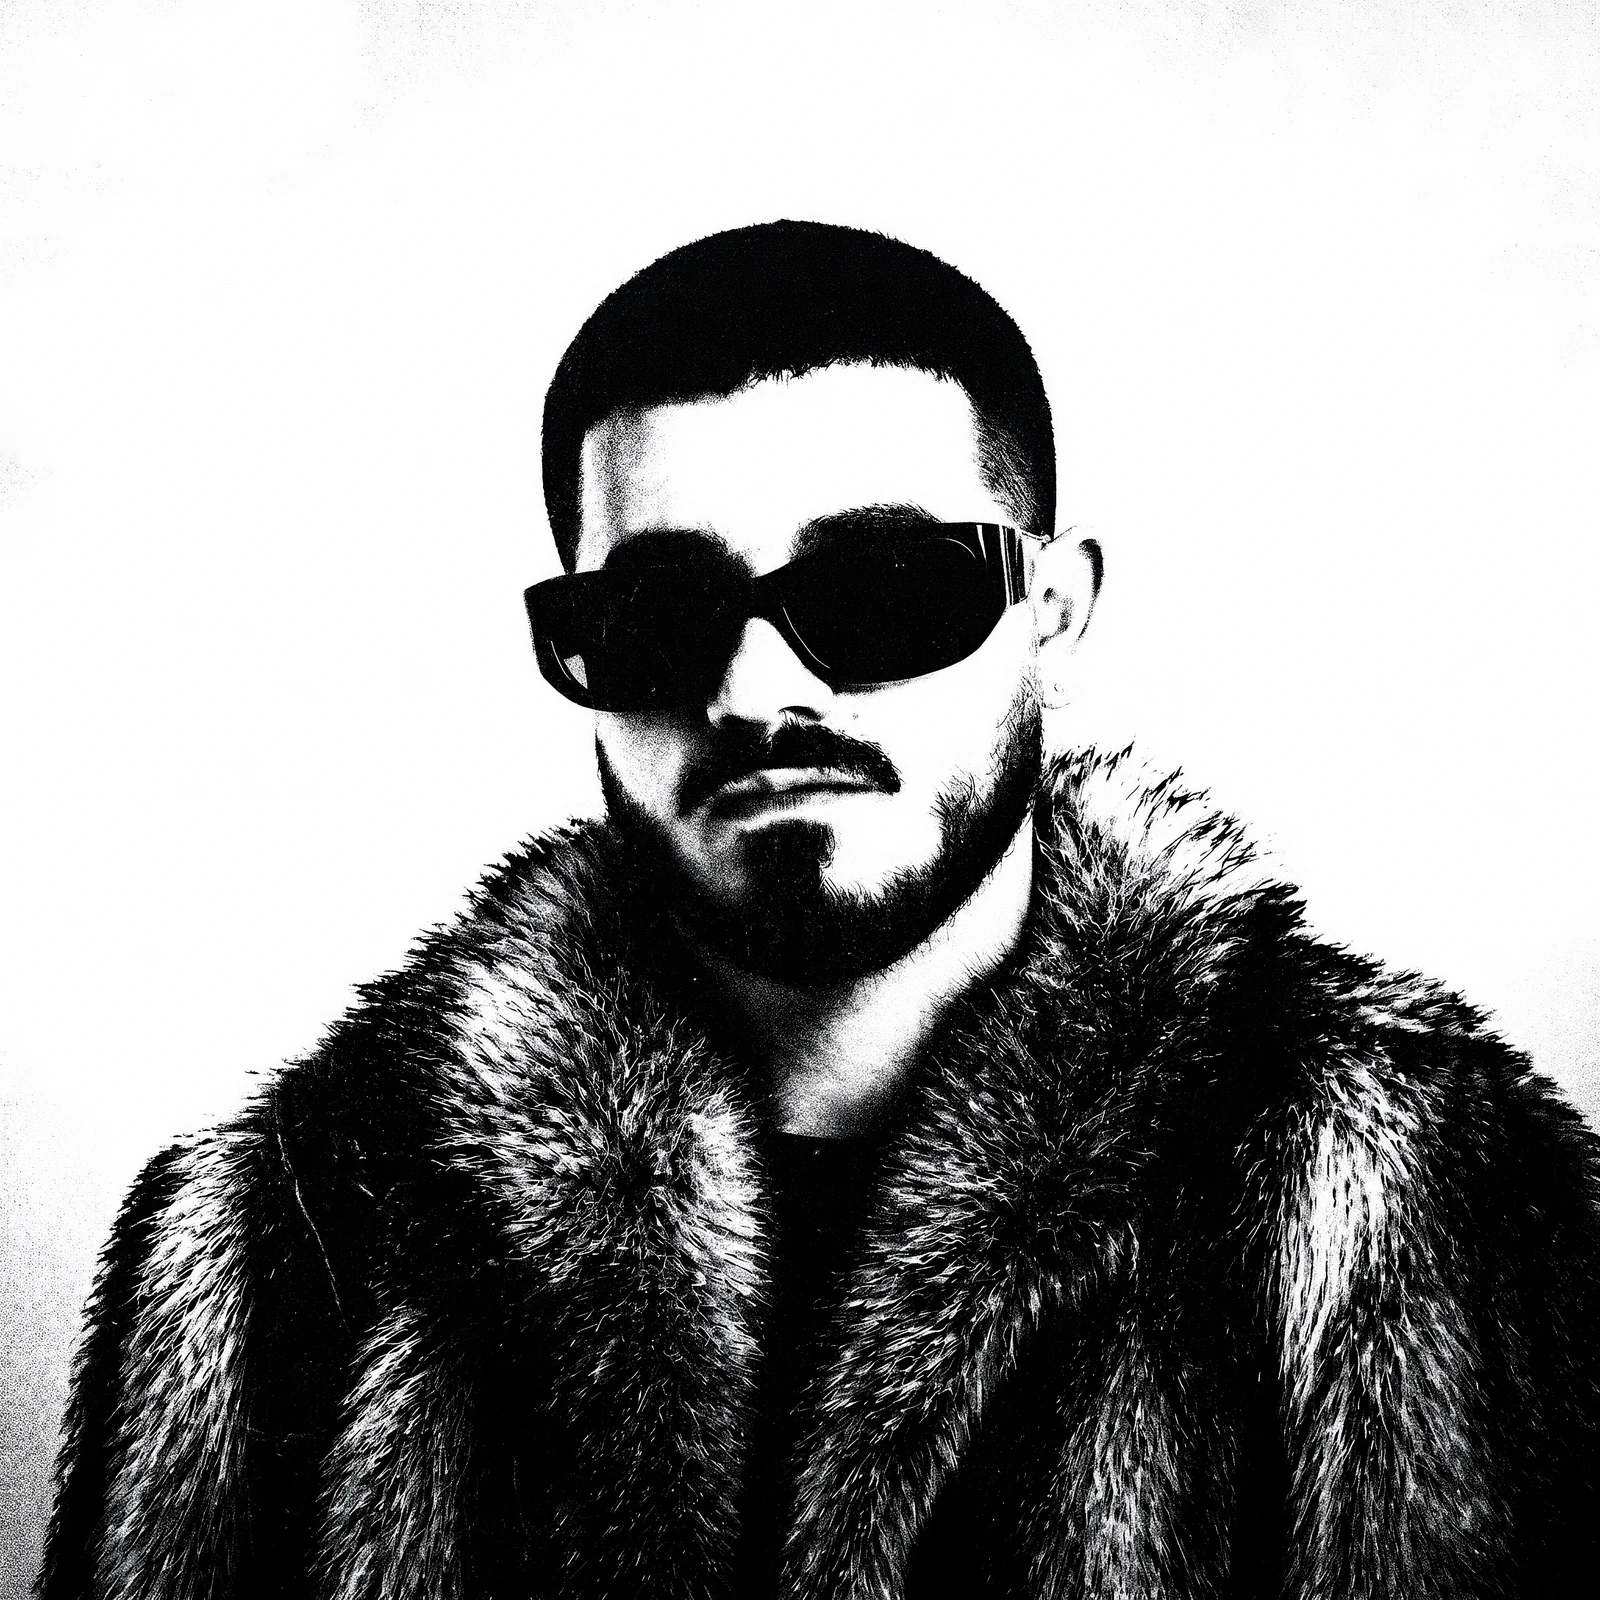
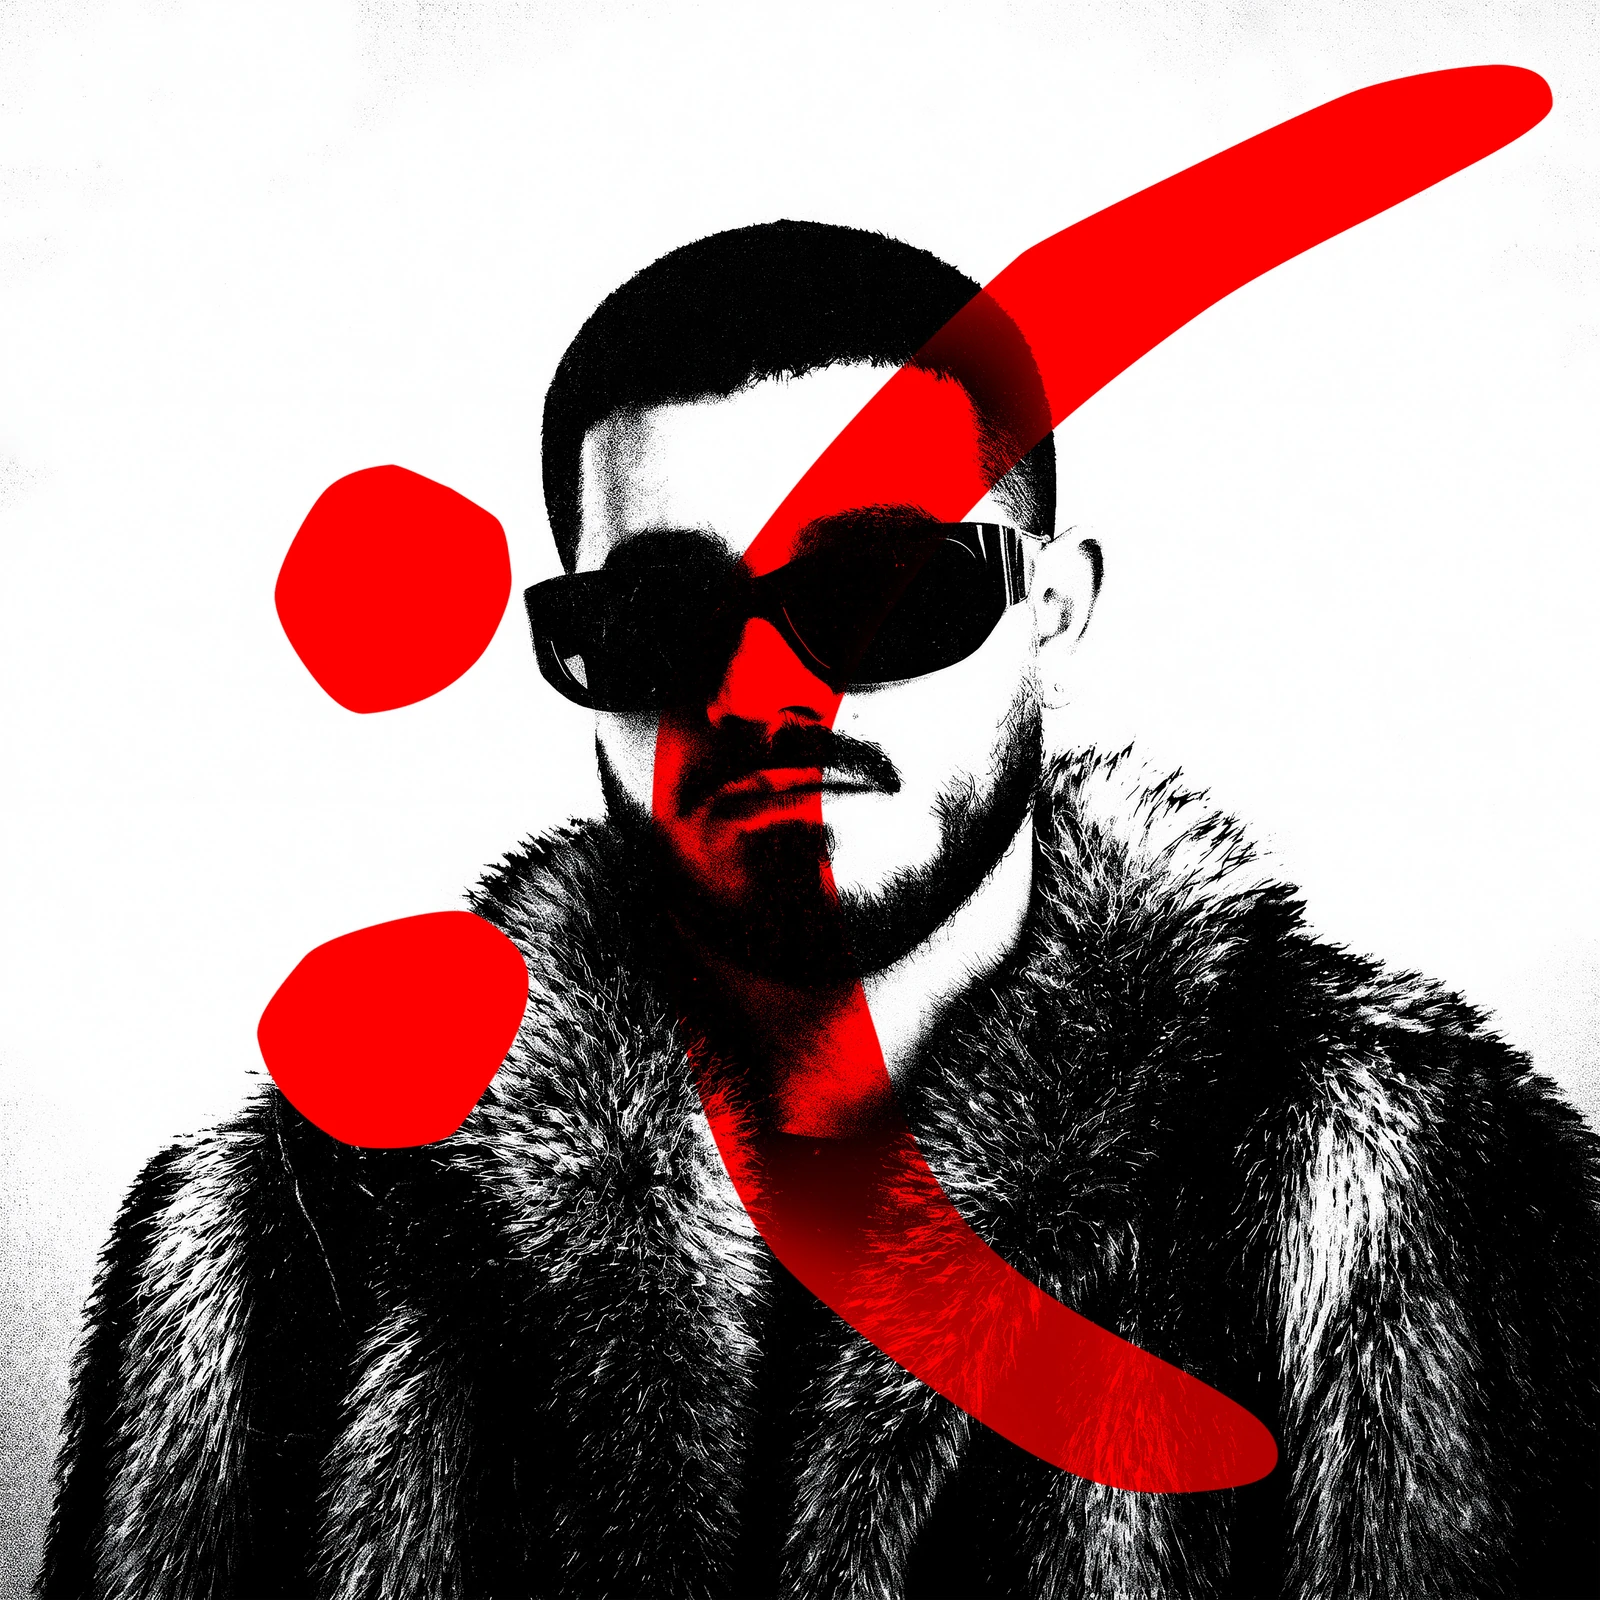
Actualiza la portada final del álbum

diff --git a/lanzamientos/a-la-gente-buena-le-pasan-cosas-malas/index.html b/lanzamientos/a-la-gente-buena-le-pasan-cosas-malas/index.html
@@ -11,11 +11,11 @@
   <meta property="og:url" content="https://afropxmusic.com/lanzamientos/a-la-gente-buena-le-pasan-cosas-malas/">
   <meta property="og:title" content="A la gente buena le pasan cosas malas — AfroPX">
   <meta property="og:description" content="Nuevo álbum de AfroPX. Preguárdalo y encuentra aquí todos sus enlaces oficiales.">
-  <meta property="og:image" content="https://afropxmusic.com/assets/images/algblpcm-og.jpg">
+  <meta property="og:image" content="https://afropxmusic.com/assets/images/algblpcm-og.jpg?v=portada-final-20260720">
   <meta property="og:image:alt" content="Portada de A la gente buena le pasan cosas malas de AfroPX">
   <meta name="twitter:card" content="summary_large_image">
   <link rel="icon" href="../../assets/icons/favicon.svg" type="image/svg+xml">
-  <link rel="preload" href="../../assets/images/algblpcm-cover.webp" as="image" type="image/webp">
+  <link rel="preload" href="../../assets/images/algblpcm-cover.webp?v=portada-final-20260720" as="image" type="image/webp">
   <link rel="stylesheet" href="../../styles.css?v=20260720-4">
   <script src="../../script.js?v=20260720-4" defer></script>
   <script type="application/ld+json">
@@ -24,7 +24,7 @@
     "@type": "MusicAlbum",
     "name": "A la gente buena le pasan cosas malas",
     "url": "https://afropxmusic.com/lanzamientos/a-la-gente-buena-le-pasan-cosas-malas/",
-    "image": "https://afropxmusic.com/assets/images/algblpcm-og.jpg",
+    "image": "https://afropxmusic.com/assets/images/algblpcm-og.jpg?v=portada-final-20260720",
     "numTracks": 12,
     "byArtist": {
       "@type": "MusicGroup",
@@ -59,7 +59,7 @@
     <section class="release-link-hero" id="top" aria-labelledby="album-title">
       <div class="release-link-visual">
         <figure class="release-cover image-reveal">
-          <img src="../../assets/images/algblpcm-cover.webp" alt="Portada del álbum A la gente buena le pasan cosas malas de AfroPX" width="1600" height="1600">
+          <img src="../../assets/images/algblpcm-cover.webp?v=portada-final-20260720" alt="Portada del álbum A la gente buena le pasan cosas malas de AfroPX" width="1600" height="1600">
           <figcaption>AFROPX / 12 CANCIONES / :(</figcaption>
         </figure>
       </div>

diff --git a/lanzamientos/index.html b/lanzamientos/index.html
@@ -11,11 +11,11 @@
   <meta property="og:url" content="https://afropxmusic.com/lanzamientos/">
   <meta property="og:title" content="Lanzamientos — AfroPX">
   <meta property="og:description" content="Últimos lanzamientos, música destacada y todos los enlaces oficiales de AfroPX.">
-  <meta property="og:image" content="https://afropxmusic.com/assets/images/algblpcm-og.jpg">
+  <meta property="og:image" content="https://afropxmusic.com/assets/images/algblpcm-og.jpg?v=portada-final-20260720">
   <meta property="og:image:alt" content="Portada de A la gente buena le pasan cosas malas de AfroPX">
   <meta name="twitter:card" content="summary_large_image">
   <link rel="icon" href="../assets/icons/favicon.svg" type="image/svg+xml">
-  <link rel="preload" href="../assets/images/algblpcm-cover.webp" as="image" type="image/webp">
+  <link rel="preload" href="../assets/images/algblpcm-cover.webp?v=portada-final-20260720" as="image" type="image/webp">
   <link rel="stylesheet" href="../styles.css?v=20260720-4">
   <script src="../script.js?v=20260720-4" defer></script>
 </head>
@@ -55,7 +55,7 @@
       <div class="section-label dark reveal"><span>01</span><span>Último lanzamiento</span></div>
       <div class="featured-launch-grid">
         <figure class="featured-cover image-reveal">
-          <img src="../assets/images/algblpcm-cover.webp" alt="Portada de A la gente buena le pasan cosas malas de AfroPX" width="1600" height="1600">
+          <img src="../assets/images/algblpcm-cover.webp?v=portada-final-20260720" alt="Portada de A la gente buena le pasan cosas malas de AfroPX" width="1600" height="1600">
           <figcaption>AFROPX / NUEVA ERA / :(</figcaption>
         </figure>
         <div class="featured-launch-copy">